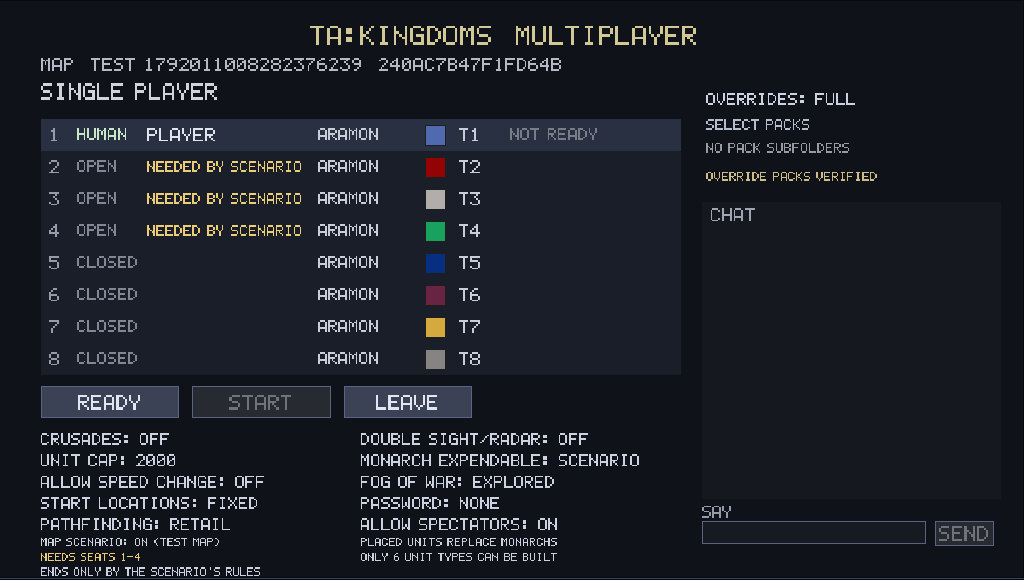
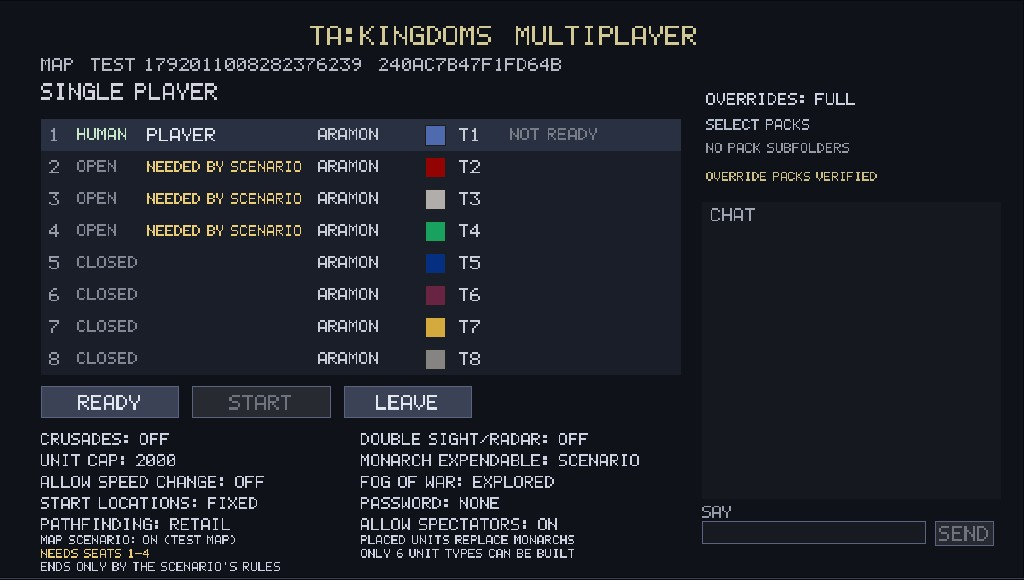
Docs: MAP SCENARIO review fixes
User guide: "Your first skirmish" and the README front image show the
ordinary setup screen again (the King of the Hill scenario capture
contradicted the Monarch steps that follow). The scenario capture is now
img/lobby-scenario.jpg under "Scenario games", recaptured after the army
rule, with what to know before playing one: you are player 1, computer
players ignore regions and objectives and do nothing in a seat without
units, and the room's NO PLACED UNITS warning.

Cartographer guide: the option is enabled (not shown) for maps with placed
units or rules, and greyed when player 1 gets no army; only the test copy of
a map with a scenario reads ON, and a Use Only-only test copy is described;
Use Only names no unit answers to are left out under MAP SCENARIO but stop a
test game; the rules-only Monarch note no longer states retail behaviour as
fact; known limits add the computer-player and seat-1 limits.
test-lobby.jpg recaptured for the moved scenario rows.

multiplayer-design.md: the 259 paragraph covers the package-completeness
refusal, the stress/benchmark clear on lobby updates and the Use Only rule,
and the replay sentence now matches supportedReplayProtocol (257 and 258
recordings still play). README: the MAP SCENARIO sentence no longer splits
the Test Map steps. crt-triggers.md: the Use Only rule.

Claude-Session: https://claude.ai/code/session_01FTvU2HZW2R6Y8F8ue5QD4q

diff --git a/docs/cartographer-guide.md b/docs/cartographer-guide.md
@@ -77,13 +77,13 @@ multiplayer games.
 > **Scenario content plays when a game asks for it.** Placed units, trigger
 > rules and the Use Only unit list run when you open the map with **Test Map
 > (F5)** or the game's `--play-map` option, and in any skirmish or multiplayer
-> game created with **MAP SCENARIO** turned on. That option appears under the
-> map preview when the map's scenario has placed units or rules, and it starts
-> off: chosen with it off, your `.kmp` plays as a normal skirmish map (its
-> terrain, features and start positions, a Monarch for every player). The test
-> copy that Test Map and `--play-map` leave in the map list (with a fingerprint
-> in brackets after its name) always plays its scenario. See
-> [When scenarios run](#when-scenarios-run).
+> game created with **MAP SCENARIO** turned on. That button sits under the map
+> preview and can be turned on when the map's scenario has placed units or
+> rules. It starts off: chosen with it off, your `.kmp` plays as a normal
+> skirmish map (its terrain, features and start positions, a Monarch for every
+> player). The test copy that Test Map and `--play-map` leave in the map list
+> (with a fingerprint in brackets after its name) always plays the scenario of a
+> map that has one. See [When scenarios run](#when-scenarios-run).
 
 ---
 
@@ -992,21 +992,31 @@ such as "hold the hill for five minutes to win".
 >   scenario changes. It starts off and turns off again whenever another map is
 >   picked, so a map chosen with it off plays as a plain skirmish map. It is
 >   greyed, with the reason, for a map without a playable scenario: one with no
->   scenario, an empty one, or one that needs a unit type this install lacks.
->   With **Overrides: Full** that last kind is offered with the warning *NEEDS AN
->   OVERRIDE PACK*, because a pack the host selects in the room may supply the
->   unit; if none does, the game refuses to start and says which unit is missing.
->   Maps with a playable scenario carry a gold **S** in the map list.
+>   scenario, an empty one, one that needs a placed or custom unit type this
+>   install lacks, or one whose placed units give Player 1 nothing to command
+>   (*PLAYER 1 GETS NO ARMY*). Player 1 is the player who creates the game, and
+>   placed units replace every Monarch, so Player 1 needs a placed unit that can
+>   fight, build or move (animals, villagers, monsters and unarmed buildings such
+>   as lodestones do not count) or a rule that creates units for it. Many
+>   downloaded maps used the scenario editor only to place scenery or wildlife,
+>   and play as ordinary skirmish maps. With **Overrides: Full**, a map that needs
+>   a unit type this install lacks is offered with the warning *PACK NEEDED:*
+>   and the unit, when the install has an override pack the host could select in
+>   the room; if no selected pack supplies the unit, the game refuses to start
+>   and says which unit is missing. Maps with a playable scenario carry a gold
+>   **S** in the map list.
 >
 > The test copy that each Test Map or `--play-map` run leaves in the game's
 > `MapCache` folder appears in the map list with a fingerprint in brackets after
 > its name (see [Testing a map in the game](#testing-a-map-in-the-game)).
-> Choosing it always plays the scenario, just as the test did: its MAP SCENARIO
-> button reads ON and cannot be changed.
+> Choosing the test copy of a map with a scenario always plays that scenario,
+> just as the test did: its MAP SCENARIO button reads ON and cannot be changed.
 >
 > A map whose only scenario content is a Use Only list has no scenario (the
 > original Cartographer did not mark one either), so MAP SCENARIO is not
-> offered for it; its list applies only in a test game.
+> offered for it and its list applies only in a test game. Its test copy's
+> button reads OFF, and the lines under it say *TEST COPY: USE ONLY LIST* and
+> how many unit types can be built; the lobby says the same.
 
 In a scenario game:
 
@@ -1021,6 +1031,10 @@ In a scenario game:
   player whose rules are all empty.
 - **Start Locations** are always fixed, and **Monarch Expendable** reads
   *SCENARIO*: the scenario decides how the game ends.
+- A **Use Only** entry that names no unit type installed stops a test game from
+  starting (*Unknown authored Use Only unit*), so a typo is caught. In a game
+  created with MAP SCENARIO such an entry is left out instead: maps made for the
+  original game often list units that no install has.
 - A map with scenario content can be started with only one player; other maps
   need two, as in any skirmish.
 - The usual endings are switched off: losing your Monarch, or every unit, does
@@ -1725,9 +1739,17 @@ Start Cartographer from its shortcut and choose **Recover**. See
 ## Known limits
 
 - **Maps with rules but no placed units keep the Monarchs.** Every player
-  starts with the usual Monarch, which the original game did not give them: its
-  scenario games started with only the placed units, and such maps create their
-  armies with rules.
+  starts with the usual Monarch as well as anything the rules create. The
+  original game may have started such maps with no units at all; that is not
+  yet confirmed.
+- **Computer players do not read scenarios.** They ignore regions and
+  objectives and simply play with the units they are given; a computer player
+  in a seat that has no units does nothing. The lobby warns about such a seat
+  (*NO PLACED UNITS: PLAYER N*).
+- **You always play seat 1.** The player who creates the game takes seat 1, and
+  players who join take the lowest open seat; nobody can pick a seat. Close the
+  seats your scenario does not need before others join, so that they land in
+  seats that have units.
 - **Test Map on macOS.** Started from **TAK Cartographer.app**, Test Map looks
   for the game in the wrong place and reports *Cannot find takclient beside
   Cartographer*, even with both apps in the same folder. Save the map and open

diff --git a/docs/multiplayer-design.md b/docs/multiplayer-design.md
@@ -644,37 +644,49 @@ Protocol 259 adds the room's MAP SCENARIO option: `GameOptions.mapScenario` (u8,
 default 0) follows `allowSpectators` in `CreateGame`, `SetGameOptions`,
 `LobbyState` and `GameStarting`; `GameList` is unchanged. With it on, shared
 match setup plays the map's own scenario -- the `.crt` placements and rules and
-the Use Only `.tdf` -- exactly as for a Cartographer Test Map copy. Setup runs
-the scenario when the map's `.ota` carries the Test Map opt-in
-(`[TAKPlaytest] authoredscenario=1`) or when the option is on and the `.ota`
-declares `hasscenario`. The opt-in route is unchanged, so Test Map and
-`--play-map` games, and their recordings, behave as before. The option is
-creation-only: the server keeps the created value through later
-`SetGameOptions`, because players choose seats, sides and READY for the game it
-makes, and the creating client sized the room's open seats for it (a scenario
-can need seats past the map's start positions). At creation the server clears
-it for campaign missions, generated maps, stress tests and benchmarks, and
-forces Random Start Locations off with it. At START it reads the verified
-package's own files (`maps::scenarioInfo` over the package, never the host's
-claim): it refuses a room whose map has no scenario content ("this map has no
-scenario to play"), and refuses while a seat the scenario needs is empty, with
-setupMatch's own message ("Seat player N in the lobby to play this scenario").
-A start refusal reaches the host as `MapError` and the client shows it in the
-room (`MpClient::startError`); before this, a setup refusal at START was
-invisible, because the room shows its map status only while maps are being
-verified. The seats a scenario needs are its placement owners 0-7 and every
-Player N rule bank with a group that has a condition or an action; a bank
-holding only empty groups no longer demands a seat. That fix only lets a
-refused setup start, so with the option off the simulation is 258's and
-protocol-257 and 258 replays still play. The option is sim-affecting and is
-recorded in replay format 13. It is outside the Crusades rules digest
-(`putRules` keeps 257's bytes); Crusades battle rooms carry 0, and the Crusades
-replay archive refuses a recording that has it on. The map package already
-carries every map's `.ota`, `.crt` and `.tdf` and its digest covers them, so
+the Use Only `.tdf` -- as for a Cartographer Test Map copy, except that a Use
+Only entry no unit type answers to is left out rather than refused (maps made
+for the original game name such units; NeverGlory names 44). Setup runs the
+scenario when the map's `.ota` carries the Test Map opt-in (`[TAKPlaytest]
+authoredscenario=1`) or when the option is on and the `.ota` declares
+`hasscenario`. The opt-in route is unchanged, so Test Map and `--play-map`
+games, and their recordings, behave as before. The option is creation-only: the
+server keeps the created value through later `SetGameOptions`, because players
+choose seats, sides and READY for the game it makes, and the creating client
+sized the room's open seats for it (a scenario can need seats past the map's
+start positions). The server clears it for campaign missions, generated maps,
+stress tests and benchmarks (at creation, and when a lobby update turns a stress
+test or benchmark on), and forces Random Start Locations off with it. At START
+it reads the verified package's own files (`maps::scenarioInfo` over the
+package, never the host's claim): it refuses a room whose map has no scenario
+content ("this map has no scenario to play"), refuses while a seat the scenario
+needs is empty, with setupMatch's own message ("Seat player N in the lobby to
+play this scenario"), and refuses a package that leaves out a scenario file
+setupMatch will read (below). A start refusal reaches the host as `MapError` and
+the client shows it in the room (`MpClient::startError`) without recording it as
+a map or connection error; before this, a setup refusal at START was invisible,
+because the room shows its map status only while maps are being verified. The
+seats a scenario needs are its placement owners 0-7 and every Player N rule bank
+with a group that has a condition or an action; a bank holding only empty groups
+no longer demands a seat. That fix only lets a refused setup start, so with the
+option off the simulation is 258's and protocol-257 and 258 replays still play.
+The option is sim-affecting and is recorded in replay format 13. It is outside
+the Crusades rules digest (`putRules` keeps 257's bytes); Crusades battle rooms
+carry 0, and the Crusades replay archive refuses a recording that has it on. The
+map package carries every map's `.ota`, `.crt` and `.tdf`, and its digest covers
+the files it contains. A package may leave a companion out, though, and
+setupMatch would then read each machine's own copy (from `maps.hpi`, or from an
+override pack, since `maps/*.tdf` is not gameplay data), which no digest covers.
+So at START the server refuses a room whose setup will read a scenario file the
+package lacks: the `.crt` of a declared scenario, or the named Use Only list
+("the map package leaves out its Use Only list"). A damaged or misnamed file
+inside the package is setupMatch's to refuse, with its own message. With that,
 every peer and the referee play the same scenario files.
 
-Replay format 11 records the pathfinder. Playback requires the current
-simulation protocol; older recordings require their original engine.
+Replay format 11 records the pathfinder. Playback requires a protocol that
+`supportedReplayProtocol` accepts: the current one, plus 257 and 258 while 259
+is current (their simulation is unchanged). Older recordings require their
+original engine.
 Campaign playback forces Retail even if a header supplies another mode.
 Replay format 13 adds the room's MAP SCENARIO byte after the slot table (0 when
 reading an older file). Saved

diff --git a/docs/user-guide.md b/docs/user-guide.md
@@ -228,9 +228,9 @@ In a game, **Esc** opens the game menu: **Resume**, **YouTube Streaming**,
    the slot. **Easy** is a good first opponent.
 6. Click **Start**.
 
-![The game setup screen with the map list, a map preview and the match options; King of the Hill is selected with MAP SCENARIO: ON, and the lines under it read UNITS PLACED FOR 1-4, NEEDS SEATS 1-4, BUILDS 6 UNIT TYPES and ENDS BY SCENARIO RULES](img/lobby.jpg)
+![The game setup screen with the map list, a map preview and the match options](img/lobby.jpg)
 
-*The game setup screen: pick a map, check its preview and player count, and set the match rules. Here King of the Hill's own scenario is turned on with **Map scenario**.*
+*The game setup screen: pick a map, check its preview and player count, and set the match rules.*
 
 The game opens centred on your **Monarch**. Your first steps:
 
@@ -261,7 +261,7 @@ change in the room, until the game starts.
 | **Overrides** | Off, Cosmetic or Full. See [Overrides](#overrides). |
 | **Allow spectators** | Multiplayer only. **On** (the default): anyone in the browser can **Watch** the game once it starts. **Off**: the server turns every watcher away. Players, AIs and reconnecting players are not affected. The host can change it in the room by clicking it, until the game starts; then it is fixed. See [Spectating](#spectating). |
 | **Spectate (Watch AIs)** | Single-player only: fill every slot with AIs and watch. |
-| **Map scenario** | Play the map's own scenario (its placed armies, trigger rules and Use Only unit list) instead of a skirmish. The button is under the map preview; maps marked with a gold **S** in the list have a scenario. It is greyed, with the reason, for maps without a playable one; a map that needs a unit type your install lacks is offered under **Overrides: Full** with the warning *NEEDS AN OVERRIDE PACK*, in case a selected pack supplies it. It starts **Off** and turns off again when you pick another map, and the lines under it say what turning it on changes. While it is on, **Start locations** are fixed and **Monarch expendable** does not apply. It cannot be changed in the room. In the original game's multiplayer room the same option, **Use map script**, was ticked automatically for scenario maps; here it starts off, and single player can use it too. See [Scenario games](#scenario-games). |
+| **Map scenario** | Play the map's own scenario (its placed armies, trigger rules and Use Only unit list) instead of a skirmish. The button is under the map preview; maps marked with a gold **S** in the list have a scenario. It is greyed, with the reason, for maps without a playable one, including maps whose scenario gives you, player 1, nothing to command (*PLAYER 1 GETS NO ARMY*: many downloaded maps place only scenery or wildlife). A map that needs a unit type your install lacks is offered under **Overrides: Full**, if you have an override pack, with the warning *PACK NEEDED:* and the unit, in case a selected pack supplies it. It starts **Off** and turns off again when you pick another map, and the lines under it say what turning it on changes. While it is on, **Start locations** are fixed and **Monarch expendable** does not apply. It cannot be changed in the room. In the original game's multiplayer room the same option, **Use map script**, was ticked automatically for scenario maps; here it starts off, and single player can use it too. See [Scenario games](#scenario-games). |
 
 Your choices are remembered for next time, except passwords, Spectate and Map
 scenario.
@@ -346,6 +346,23 @@ wins: losing your Monarch or every unit does not knock you out. A scenario
 without such rules never ends by itself; the create screen warns *NO VICTORY
 RULES: ENDLESS*, and the game ends when the players leave. Every seat the
 scenario gives units or rules to must be filled before the game can start.
+
+![The single-player setup screen with King of the Hill selected and MAP SCENARIO: ON under the preview; the lines under it read UNITS PLACED FOR 1-4, NEEDS SEATS 1-4, BUILDS 6 UNIT TYPES and ENDS BY SCENARIO RULES, a gold S marks the scenario maps in the list, and Monarch Expendable and Start Locations are greyed](img/lobby-scenario.jpg)
+
+*King of the Hill with **Map scenario** turned on.*
+
+Some things to know before you play one:
+
+- **You are player 1.** The player who creates the game always takes seat 1,
+  and players who join take the lowest open seat. If the scenario gives seat 1
+  nothing to command, the option is greyed. Close the seats the scenario does
+  not need before others join, so that they land in seats that have units.
+- **Computer players do not read the scenario.** They ignore its regions and
+  objectives and play with the units they are given; a computer player in a
+  seat with no units does nothing. The room warns about such a seat in amber
+  (*NO PLACED UNITS: PLAYER N*).
+- Maps made for the original game sometimes list units in their Use Only list
+  that no install has; those names are ignored.
 
 ### Mana: the only resource
 
@@ -1272,8 +1289,9 @@ under the host's pointer; for everyone else it is read-only. See
 Under the rules, the room says whether the game plays the map's scenario
 (**MAP SCENARIO: ON**) and, if so, what it changes and which seats it needs.
 Each empty seat it needs is tagged **NEEDED BY SCENARIO**, and **Start** stays
-greyed until they are all filled. If the server still refuses to start the
-game, the reason appears in red under the buttons.
+greyed until they are all filled. A seated player whom the scenario gives no
+units is named in amber (*NO PLACED UNITS: PLAYER N*). If the server still
+refuses to start the game, the reason appears in red under the buttons.
 
 ### Maps and content
 

diff --git a/docs/img/README.md b/docs/img/README.md
@@ -65,7 +65,8 @@ simulation code. Every scene runs the normal game rules, AI and renderer.
 | `hud.jpg` | Aramon player in a local-server game, about 10 s in. **Stress-test start**: Normal AI opponent, 250-unit cap. **Scripted orders**: 45 units of eight types (Archers, Swordsmen, Knights, Catapults, Mage Archers, Cannoneers, Horsemen, Rolling Towers) were made formation 1 and selected, so the information bar shows the portrait strip (one portrait per type with its count), FORMATION 1 and 45 SELECTED, and the selected units show `1F` in solid green (new in 0.8.0). The empty right-hand bar is gone (0.8.1). Stats panel on, 1.15× zoom; its VID row reads 87 MB, against 151 MB in the 0.8.0 capture of the same scene. Rendered by the 0.8.1 build |
 | `naval.jpg` | **Development scene, spawned.** Cairbray Coast Landing, 10 s in. Veruna Flagship, Men of War, Trebuchet Ships and Harpoon Ships fight Creon Iron Clads, Stern Wheelers and Submersibles. Nothing is selected, so the information bar is empty. 1.6× zoom, fog off. Rendered by the 0.8.1 build |
 | `generated.jpg` | Generated Aramon Riverlands map "Silverford" (generator v8, seed 7, 256 × 256, four players). Four Hard AIs at 8× speed, seven game minutes in. Spectator view of a lake shore at 1× |
-| `lobby.jpg` | Single-player create screen on King of the Hill with **MAP SCENARIO** turned on (protocol 259): the gold **S** marks scenario maps in the list, the lines under the button say what the scenario changes, and Monarch Expendable and Start Locations are greyed. Debug client with a fresh profile and an empty `MapCache`, offscreen at 1024 × 768 (`TAK_MENU_PICK=singleplayer`, one `TAK_SHOT_CLICKS` click on the button), cropped to the lobby panel; rendered on 2026-10-14 |
+| `lobby.jpg` | Unchanged from 0.7.25: create-game screen with Ulasem Arena preview and Retail pathfinding |
+| `lobby-scenario.jpg` | Single-player create screen on King of the Hill with **MAP SCENARIO** turned on (protocol 259): the gold **S** marks the maps with a playable scenario in the list, the lines under the button say what the scenario changes, and Monarch Expendable and Start Locations are greyed. Debug client with a fresh profile on a scratch copy of the retail install with downloaded maps and an empty `MapCache`, offscreen at 1024 × 768 (`TAK_MENU_PICK=singleplayer`, `TAK_SHOT_CLICKS` clicks the button, then moves the pointer off the panel), cropped to the lobby panel; rendered on 2026-10-14. Used only by the user guide |
 | `room.jpg` | Unchanged from 0.7.25: local-server lobby with three Normal AIs, example pack selections (empty UI fixtures) and Legion pathfinding |
 | `campaign.jpg` | Unchanged from 0.7.25: Book of Darien campaign picker with a fresh profile |
 | `crusades.jpg` | Unchanged from 0.7.25: imported Darien Crusades definition on an authenticated local server; no authored battle maps or ownership |
@@ -104,7 +105,8 @@ unchanged views contain no version text.
 | `scorecard.jpg` | F4 scorecard over a benchmark battle (Absurd), 55 s in, at 1.1× zoom |
 
 The guide also uses `title.jpg`, `lobby.jpg`, `room.jpg`, `campaign.jpg`,
-`diplomacy.jpg`, `generated.jpg` and `cartographer.png` from the gallery.
+`diplomacy.jpg`, `generated.jpg` and `cartographer.png` from the gallery, and
+`lobby-scenario.jpg` from the table above.
 
 The other guide images (benchmark and scorecard) are from the 0.7.26 build and
 show nothing that 0.7.27 to 0.8.2 changed: they are spectator views with no
@@ -150,7 +152,8 @@ composed, so no browser cell or tree is a placeholder.
   the release client opens the same lobby but has no `--shot`. On 2026-10-14
   `test-lobby.jpg` was recaptured the same way for MAP SCENARIO (protocol 259),
   from a snapshot of the shipped King of the Hill files packed under the same
-  *Test* name, as F5 would have written it.
+  *Test* name, as F5 would have written it, and again after the room's
+  scenario lines moved up clear of the panel edge.
 - **Markers and composites.** `window-annotated.jpg` has numbered markers drawn
   on a copy of the capture with Pillow. `random-generator.jpg`,
   `symmetry-stamp.jpg`, `terrain-clipboard.jpg` and `features-select.jpg` put two

diff --git a/README.md b/README.md
@@ -719,10 +719,10 @@ for layout, archive precedence, and troubleshooting a rejected folder.
   placements keep a separate owner, and custom armor/weapon percentages affect
   combat. Victory/Defeat rules determine authored scenario outcomes; no such rule
   means the scenario can remain a sandbox. See [scenario details and limits](docs/crt-triggers.md).
-  Saved scenario maps, and the shipped scripted maps, can also be played from the
-  game's skirmish and multiplayer create screens with **MAP SCENARIO** (protocol 259).
   Close the test game to return to editing. Verified snapshots remain in the map
   cache, like other downloaded maps; the temporary source is removed after exit.
+  Saved scenario maps, and the shipped scripted maps, can also be played from the
+  game's skirmish and multiplayer create screens with **MAP SCENARIO** (protocol 259).
   Hover over toolbar controls, filters or the minimap for action help and
   shortcuts. The [Cartographer user guide](docs/cartographer-guide.md) explains
   every tool, with pictures and a first-map walkthrough.

diff --git a/docs/crt-triggers.md b/docs/crt-triggers.md
@@ -53,9 +53,11 @@ the flag value and suffix in action 25 messages.
 to `World` when the map OTA declares `hasscenario=1` and either the room's MAP
 SCENARIO option is on (protocol 259, `MatchConfig::mapScenario`) or the map
 carries the Test Map opt-in `[TAKPlaytest] { authoredscenario=1; }`; the world
-ticks it and hashes its rule state. `src/sim/scenarioinfo.cpp` reads the same
-files without building a world, for the create screens, the room and the
-server's START checks.
+ticks it and hashes its rule state. On the MAP SCENARIO route a Use Only entry
+that names no installed unit type is left out (maps made for the original game
+list such names); a Test Map copy refuses it, as the author's typo.
+`src/sim/scenarioinfo.cpp` reads the same files without building a world, for
+the create screens, the room and the server's START checks.
 Messages are filtered for the local viewer without changing that state.
 Released **0.7.13 uses protocol 198**. The implementation described below is the
 **0.7.14, protocol 200**; update every client and server together.
